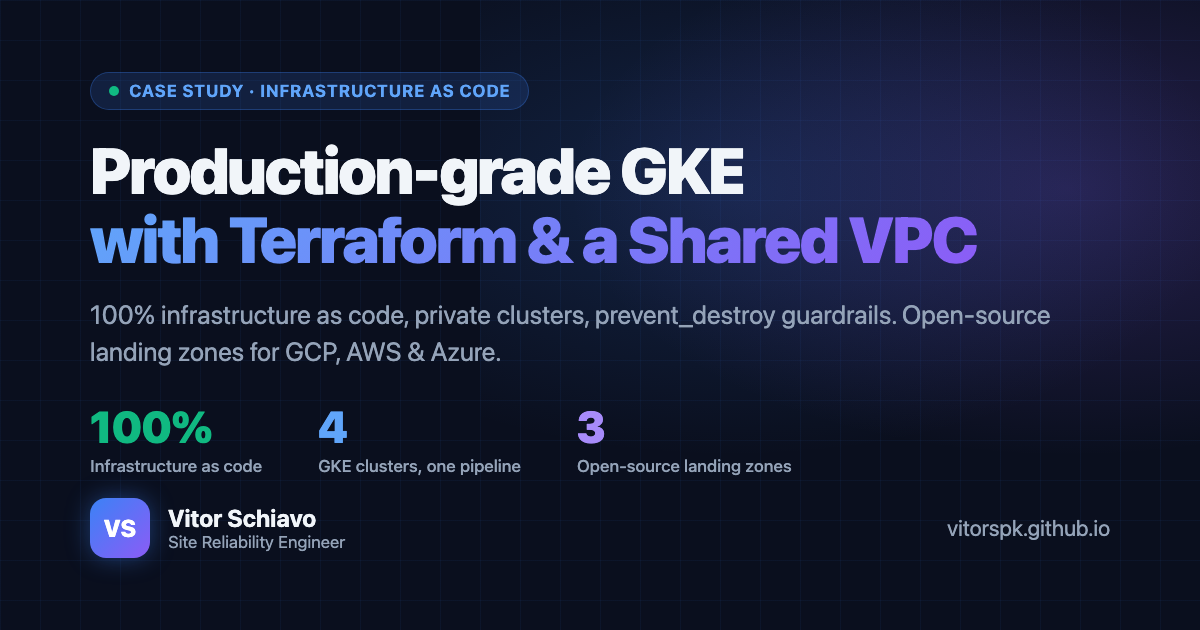
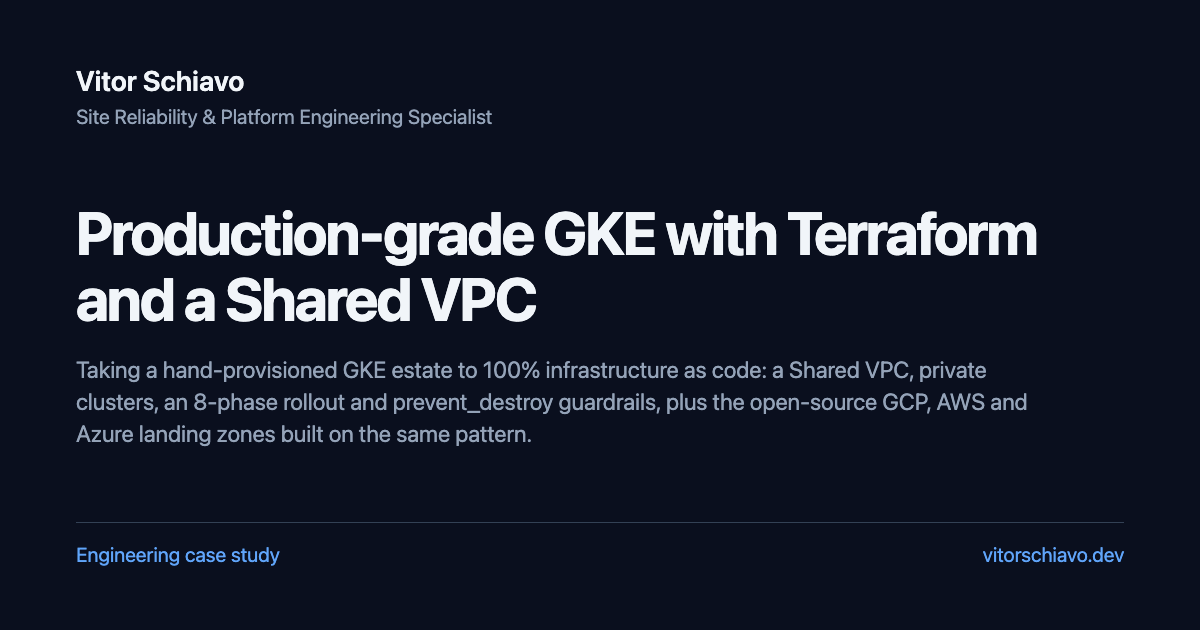
feat(content): regenerate the OG images with the specialist role line; align image alt texts
Owner's request on #94: the social-share images now present the same
positioning as the hero.

- scripts/generate-og-image.js: role line "Site Reliability & Platform
  Engineering Specialist"
- og-image.png and all 22 cases/<slug>/og.png regenerated from it
- og:image:alt / twitter:image:alt on the home and résumé pages in EN,
  PT-BR and ES now describe the new image text; i18n stamps refreshed
- Vitor-Schiavo-Resume.pdf and its manifest regenerated after the alt
  change in resume.html
- CLAUDE.md and docs/content-evidence.md: OG images belong to the
  specialist layer; the held title stays in JSON-LD, sidebar role line
  and footer

diff --git a/scripts/generate-og-image.js b/scripts/generate-og-image.js
@@ -15,7 +15,7 @@ const subtitle = slug ? source.match(/<meta name="description" content="([^"]*)"
 const html = `<!DOCTYPE html><html lang="en"><head><meta charset="utf-8"><style>
 * { box-sizing: border-box; margin: 0; } body { width: 1200px; height: 630px; background: #0a0f1e; color: #f1f5f9; padding: 64px 76px; font-family: -apple-system, BlinkMacSystemFont, 'Segoe UI', sans-serif; display: flex; flex-direction: column; justify-content: space-between; }
 .name { font-size: 28px; font-weight: 600; } .role { color: #94a3b8; font-size: 20px; margin-top: 8px; } h1 { font-size: 60px; line-height: 1.1; letter-spacing: -2px; font-weight: 700; max-width: 1050px; } .subtitle { font-size: 23px; line-height: 1.4; color: #94a3b8; margin-top: 22px; max-width: 960px; } footer { border-top: 1px solid #334155; padding-top: 20px; color: #60a5fa; display: flex; justify-content: space-between; font-size: 20px; }
-</style></head><body><header><p class="name">Vitor Schiavo</p><p class="role">Site Reliability &amp; Platform Engineer</p></header><main><h1>${title}</h1><p class="subtitle">${subtitle}</p></main><footer><span>${slug ? 'Engineering case study' : 'Selected engineering work'}</span><span>vitorschiavo.dev</span></footer></body></html>`;
+</style></head><body><header><p class="name">Vitor Schiavo</p><p class="role">Site Reliability &amp; Platform Engineering Specialist</p></header><main><h1>${title}</h1><p class="subtitle">${subtitle}</p></main><footer><span>${slug ? 'Engineering case study' : 'Selected engineering work'}</span><span>vitorschiavo.dev</span></footer></body></html>`;
 (async () => {
     const browser = await chromium.launch();
     try {

diff --git a/pt/resume.html b/pt/resume.html
@@ -1,5 +1,5 @@
 <!DOCTYPE html>
-<!-- i18n:src-sha=b3f704f8b1743be6e9e5b091008a629896415d0d src=resume.html -->
+<!-- i18n:src-sha=d4851142f54e0eb3a652474621579072588abcff src=resume.html -->
 <html lang="pt-BR">
 <head>
     <meta charset="UTF-8">
@@ -29,14 +29,14 @@
     <meta property="og:image" content="https://vitorschiavo.dev/og-image.png">
     <meta property="og:image:width" content="1200">
     <meta property="og:image:height" content="630">
-    <meta property="og:image:alt" content="Vitor Schiavo — Site Reliability Engineer e Platform Engineer. Sistemas confiáveis, equipes de engenharia mais fortes.">
+    <meta property="og:image:alt" content="Vitor Schiavo — Especialista em Site Reliability e Platform Engineering. Sistemas confiáveis, equipes de engenharia mais fortes.">
 
     <!-- Twitter Card -->
     <meta name="twitter:card" content="summary_large_image">
     <meta name="twitter:title" content="Vitor Schiavo — Currículo">
     <meta name="twitter:description" content="Decisões e resultados de engenharia: CI confiável, ambientes de pré-visualização efêmeros e observabilidade útil.">
     <meta name="twitter:image" content="https://vitorschiavo.dev/og-image.png">
-    <meta name="twitter:image:alt" content="Vitor Schiavo — Site Reliability Engineer e Platform Engineer">
+    <meta name="twitter:image:alt" content="Vitor Schiavo — Especialista em Site Reliability e Platform Engineering">
 
     <!-- Canonical + hreflang + og:url/og:locale — managed by scripts/build-i18n.js (do not hand-edit) -->
     <!-- i18n:links:start -->

diff --git a/es/index.html b/es/index.html
@@ -1,5 +1,5 @@
 <!DOCTYPE html>
-<!-- i18n:src-sha=30e98482f9492002067c4c9d9504d9a679dc85f4 src=index.html -->
+<!-- i18n:src-sha=840b5ce6eaa2eea67d4dbc58379eeecf751c08cc src=index.html -->
 <html lang="es">
 <head>
 <meta charset="UTF-8">
@@ -27,13 +27,13 @@
 <meta property="og:image" content="https://vitorschiavo.dev/og-image.png">
 <meta property="og:image:width" content="1200">
 <meta property="og:image:height" content="630">
-<meta property="og:image:alt" content="Vitor Schiavo — Site Reliability y Platform Engineer. Sistemas confiables, equipos de ingeniería más fuertes.">
+<meta property="og:image:alt" content="Vitor Schiavo — Especialista en Site Reliability y Platform Engineering. Sistemas confiables, equipos de ingeniería más fuertes.">
 <!-- Twitter Card -->
 <meta name="twitter:card" content="summary_large_image">
 <meta name="twitter:title" content="Vitor Schiavo — Especialista en SRE y Platform Engineering">
 <meta name="twitter:description" content="Decisiones de ingeniería y resultados: CI confiable, entornos de vista previa efímeros y observabilidad útil.">
 <meta name="twitter:image" content="https://vitorschiavo.dev/og-image.png">
-<meta name="twitter:image:alt" content="Vitor Schiavo — Site Reliability y Platform Engineer">
+<meta name="twitter:image:alt" content="Vitor Schiavo — Especialista en Site Reliability y Platform Engineering">
 <!-- Canonical + hreflang + og:url/og:locale — managed by scripts/build-i18n.js (do not hand-edit) -->
 <!-- i18n:links:start -->
 <link rel="canonical" href="https://vitorschiavo.dev/es/">

diff --git a/pt/index.html b/pt/index.html
@@ -1,5 +1,5 @@
 <!DOCTYPE html>
-<!-- i18n:src-sha=30e98482f9492002067c4c9d9504d9a679dc85f4 src=index.html -->
+<!-- i18n:src-sha=840b5ce6eaa2eea67d4dbc58379eeecf751c08cc src=index.html -->
 <html lang="pt-BR">
 <head>
 <meta charset="UTF-8">
@@ -27,13 +27,13 @@
 <meta property="og:image" content="https://vitorschiavo.dev/og-image.png">
 <meta property="og:image:width" content="1200">
 <meta property="og:image:height" content="630">
-<meta property="og:image:alt" content="Vitor Schiavo — Site Reliability e Platform Engineer. Sistemas confiáveis, times de engenharia mais fortes.">
+<meta property="og:image:alt" content="Vitor Schiavo — Especialista em Site Reliability e Platform Engineering. Sistemas confiáveis, times de engenharia mais fortes.">
 <!-- Twitter Card -->
 <meta name="twitter:card" content="summary_large_image">
 <meta name="twitter:title" content="Vitor Schiavo — Especialista em SRE e Platform Engineering">
 <meta name="twitter:description" content="Decisões e resultados de engenharia: CI confiável, ambientes de preview efêmeros e observabilidade útil.">
 <meta name="twitter:image" content="https://vitorschiavo.dev/og-image.png">
-<meta name="twitter:image:alt" content="Vitor Schiavo — Site Reliability e Platform Engineer">
+<meta name="twitter:image:alt" content="Vitor Schiavo — Especialista em Site Reliability e Platform Engineering">
 <!-- Canonical + hreflang + og:url/og:locale — managed by scripts/build-i18n.js (do not hand-edit) -->
 <!-- i18n:links:start -->
 <link rel="canonical" href="https://vitorschiavo.dev/pt/">

diff --git a/es/resume.html b/es/resume.html
@@ -1,5 +1,5 @@
 <!DOCTYPE html>
-<!-- i18n:src-sha=b3f704f8b1743be6e9e5b091008a629896415d0d src=resume.html -->
+<!-- i18n:src-sha=d4851142f54e0eb3a652474621579072588abcff src=resume.html -->
 <html lang="es">
 <head>
     <meta charset="UTF-8">
@@ -29,14 +29,14 @@
     <meta property="og:image" content="https://vitorschiavo.dev/og-image.png">
     <meta property="og:image:width" content="1200">
     <meta property="og:image:height" content="630">
-    <meta property="og:image:alt" content="Vitor Schiavo — Site Reliability and Platform Engineer. Sistemas confiables, equipos de ingeniería más fuertes.">
+    <meta property="og:image:alt" content="Vitor Schiavo — Especialista en Site Reliability y Platform Engineering. Sistemas confiables, equipos de ingeniería más fuertes.">
 
     <!-- Twitter Card -->
     <meta name="twitter:card" content="summary_large_image">
     <meta name="twitter:title" content="Vitor Schiavo — Currículum">
     <meta name="twitter:description" content="Decisiones y resultados de ingeniería: CI confiable, entornos de preview efímeros y observabilidad útil.">
     <meta name="twitter:image" content="https://vitorschiavo.dev/og-image.png">
-    <meta name="twitter:image:alt" content="Vitor Schiavo — Site Reliability and Platform Engineer">
+    <meta name="twitter:image:alt" content="Vitor Schiavo — Especialista en Site Reliability y Platform Engineering">
 
     <!-- Canonical + hreflang + og:url/og:locale — managed by scripts/build-i18n.js (do not hand-edit) -->
     <!-- i18n:links:start -->

diff --git a/index.html b/index.html
@@ -26,13 +26,13 @@
 <meta property="og:image" content="https://vitorschiavo.dev/og-image.png">
 <meta property="og:image:width" content="1200">
 <meta property="og:image:height" content="630">
-<meta property="og:image:alt" content="Vitor Schiavo — Site Reliability and Platform Engineer. Reliable systems, stronger engineering teams.">
+<meta property="og:image:alt" content="Vitor Schiavo — Site Reliability and Platform Engineering Specialist. Reliable systems, stronger engineering teams.">
 <!-- Twitter Card -->
 <meta name="twitter:card" content="summary_large_image">
 <meta name="twitter:title" content="Vitor Schiavo — SRE &amp; Platform Engineering Specialist">
 <meta name="twitter:description" content="Engineering decisions and results: trustworthy CI, ephemeral preview environments and useful observability.">
 <meta name="twitter:image" content="https://vitorschiavo.dev/og-image.png">
-<meta name="twitter:image:alt" content="Vitor Schiavo — Site Reliability and Platform Engineer">
+<meta name="twitter:image:alt" content="Vitor Schiavo — Site Reliability and Platform Engineering Specialist">
 <!-- Canonical + hreflang + og:url/og:locale — managed by scripts/build-i18n.js (do not hand-edit) -->
 <!-- i18n:links:start -->
 <link rel="canonical" href="https://vitorschiavo.dev/">

diff --git a/resume.html b/resume.html
@@ -28,14 +28,14 @@
     <meta property="og:image" content="https://vitorschiavo.dev/og-image.png">
     <meta property="og:image:width" content="1200">
     <meta property="og:image:height" content="630">
-    <meta property="og:image:alt" content="Vitor Schiavo — Site Reliability and Platform Engineer. Reliable systems, stronger engineering teams.">
+    <meta property="og:image:alt" content="Vitor Schiavo — Site Reliability and Platform Engineering Specialist. Reliable systems, stronger engineering teams.">
 
     <!-- Twitter Card -->
     <meta name="twitter:card" content="summary_large_image">
     <meta name="twitter:title" content="Vitor Schiavo — Résumé">
     <meta name="twitter:description" content="Engineering decisions and results: trustworthy CI, ephemeral preview environments and useful observability.">
     <meta name="twitter:image" content="https://vitorschiavo.dev/og-image.png">
-    <meta name="twitter:image:alt" content="Vitor Schiavo — Site Reliability and Platform Engineer">
+    <meta name="twitter:image:alt" content="Vitor Schiavo — Site Reliability and Platform Engineering Specialist">
 
     <!-- Canonical + hreflang + og:url/og:locale — managed by scripts/build-i18n.js (do not hand-edit) -->
     <!-- i18n:links:start -->

diff --git a/docs/content-evidence.md b/docs/content-evidence.md
@@ -73,8 +73,8 @@ No raw Jira exports, account identifiers, internal service names, private URLs o
 
 | Claim | Treatment |
 | --- | --- |
-| "Senior Platform & Site Reliability Engineer" (title, `<title>`, meta description, hero, résumé page and PDF — introduced by #87) | Not supported by any held title: the role at Dasa, Intelipost and VerifyMy (2018–present) is Site Reliability Engineer. Owner rejected the qualifier. Public title set, at the owner's request, to "Site Reliability & Platform Engineering Specialist" (PT "Especialista em Site Reliability e Platform Engineering", ES "Especialista en Site Reliability y Platform Engineering") — an expertise framing backed by the 2018–present SRE roles, not a level. The held title stays in the JSON-LD `jobTitle`, sidebar, footer and OG image. Never add Senior / Staff / Lead to the title. |
-| "Open to Senior and Staff …" (sidebar status, hero availability, contact subtitle and role list, résumé blurb) | Removed at the owner's request the same day: the availability lines now name only the field ("Open to SRE & Platform roles", "Open to opportunities in Platform Engineering and SRE"). No level word appears anywhere on the site. |
-| `<title>` / `twitter:title` say "SRE & Platform Engineering Specialist" while the hero spells out "Site Reliability …" | Deliberate: the spelled-out PT/ES title is 72 characters, over html-validate's 70-character `long-title` limit, and search results truncate around 60. Hero and meta description stay spelled out. The level-word regression test in `tests/recruiter-readiness.spec.js` covers title, meta, hero and availability copy on all six locale pages. |
-| Two layers on purpose: hero, `<title>`, meta description and résumé header say "… Specialist" (positioning), while the JSON-LD `jobTitle`, the sidebar role line, the footer and the OG image say "Site Reliability Engineer" / "Site Reliability & Platform Engineer" (held title) | Intentional, not drift. The positioning layer is the owner's chosen framing; the held-title layer is what employers can verify. Keep both; do not "align" one to the other. `og-image.png` was last generated on 2026-10-17 (#86), before #87 introduced the qualifier, and no revision of the OG generator scripts ever contained a level word, so the shipped PNG never said "Senior". |
+| "Senior Platform & Site Reliability Engineer" (title, `<title>`, meta description, hero, résumé page and PDF — introduced by #87) | Not supported by any held title: the role at Dasa, Intelipost and VerifyMy (2018–present) is Site Reliability Engineer. Owner rejected the qualifier. Public title set, at the owner's request, to "Site Reliability & Platform Engineering Specialist" (PT "Especialista em Site Reliability e Platform Engineering", ES "Especialista en Site Reliability y Platform Engineering") — an expertise framing backed by the 2018–present SRE roles, not a level. The held title stays in the JSON-LD `jobTitle`, the sidebar role line and the footer. Never add Senior / Staff / Lead to the title. |
+| "Open to Senior and Staff …" (sidebar status, hero availability, contact subtitle and role list, résumé blurb) | Removed at the owner's request the same day: the availability lines now name only the field ("Open to SRE & Platform roles", "Open to opportunities in Platform Engineering and SRE"). No level word appears anywhere on the site; the regression test scans these lines too. |
+| `<title>` / `twitter:title` say "SRE & Platform Engineering Specialist" while the hero spells out "Site Reliability …" | Deliberate: the spelled-out PT/ES title is 72 characters, over html-validate's 70-character `long-title` limit, and search results truncate around 60. Hero and meta description stay spelled out. The level-word regression test in `tests/recruiter-readiness.spec.js` covers the title layer (hero role, title, meta/OG/Twitter tags, JSON-LD) and the availability lines on all six locale pages plus the OG inputs of the 66 case pages. |
+| Two layers on purpose: hero, `<title>`, meta description, OG images and résumé header say "… Specialist" (positioning), while the JSON-LD `jobTitle`, the sidebar role line and the footer say "Site Reliability Engineer" / "Site Reliability & Platform Engineer" (held title) | Intentional, not drift. The positioning layer is the owner's chosen framing; the held-title layer is what employers can verify. Keep both; do not "align" one to the other. The 23 OG images (root + 22 cases) were regenerated on 2026-11-02 at the owner's request so the role line under the name reads "Site Reliability & Platform Engineering Specialist"; until then they had carried the held title since 2026-10-17 (#86) and never said "Senior". |
 | "specializing in cloud platforms, AI inference infrastructure, …" (meta description) | Rephrased as "Selected work in …" — describes the published cases; the only specialization asserted is Site Reliability & Platform Engineering itself. |

diff --git a/CLAUDE.md b/CLAUDE.md
@@ -80,8 +80,8 @@ All colour, spacing, and radius values live in `:root` in `css/tokens.css` (comp
 
 ### Content accuracy
 
-- The owner is presented as a **Site Reliability & Platform Engineering Specialist** (PT: *Especialista em Site Reliability e Platform Engineering*, ES: *Especialista en Site Reliability y Platform Engineering*) — an expertise framing the owner chose, used in the hero, `<title>`, meta description and résumé header. The held title at every employer since 2018 is Site Reliability Engineer, which the JSON-LD `jobTitle`, sidebar and footer keep. Never add a seniority qualifier (Senior / Staff / Lead) anywhere: not to the title, hero or résumé, and not to the "open to …" availability lines — the owner removed them all. Claims inventory: `docs/content-evidence.md`.
-- `<title>` and `twitter:title` deliberately abbreviate to **SRE** ("SRE & Platform Engineering Specialist", "Especialista em SRE e Platform Engineering", "Especialista en SRE y Platform Engineering"): the spelled-out PT/ES form exceeds html-validate's 70-character `long-title` limit, and search results would truncate the word that matters. Do not "fix" the mismatch with the hero. `tests/recruiter-readiness.spec.js` asserts that no level word appears in the positioning copy of any locale page.
+- The owner is presented as a **Site Reliability & Platform Engineering Specialist** (PT: *Especialista em Site Reliability e Platform Engineering*, ES: *Especialista en Site Reliability y Platform Engineering*) — an expertise framing the owner chose, used in the hero, `<title>`, meta description, OG images and résumé header. The held title at every employer since 2018 is Site Reliability Engineer, which the JSON-LD `jobTitle`, the sidebar role line and the footer keep. Never add a seniority qualifier (Senior / Staff / Lead / Principal) anywhere: not to that title layer and not to the "open to …" availability lines (sidebar status, hero availability, contact subtitle and role list, résumé intro) — the owner removed them there too; those lines name only the field ("Open to SRE & Platform roles"). Claims inventory: `docs/content-evidence.md`.
+- `<title>` and `twitter:title` deliberately abbreviate to **SRE** ("SRE & Platform Engineering Specialist", "Especialista em SRE e Platform Engineering", "Especialista en SRE y Platform Engineering"): the spelled-out PT/ES form exceeds html-validate's 70-character `long-title` limit, and search results would truncate the word that matters. Do not "fix" the mismatch with the hero. `tests/recruiter-readiness.spec.js` asserts that no level word appears in the positioning copy (title layer and availability lines) of any locale page, and that the OG generator template and every case page's sharing copy are clean.
 
 ---
 
